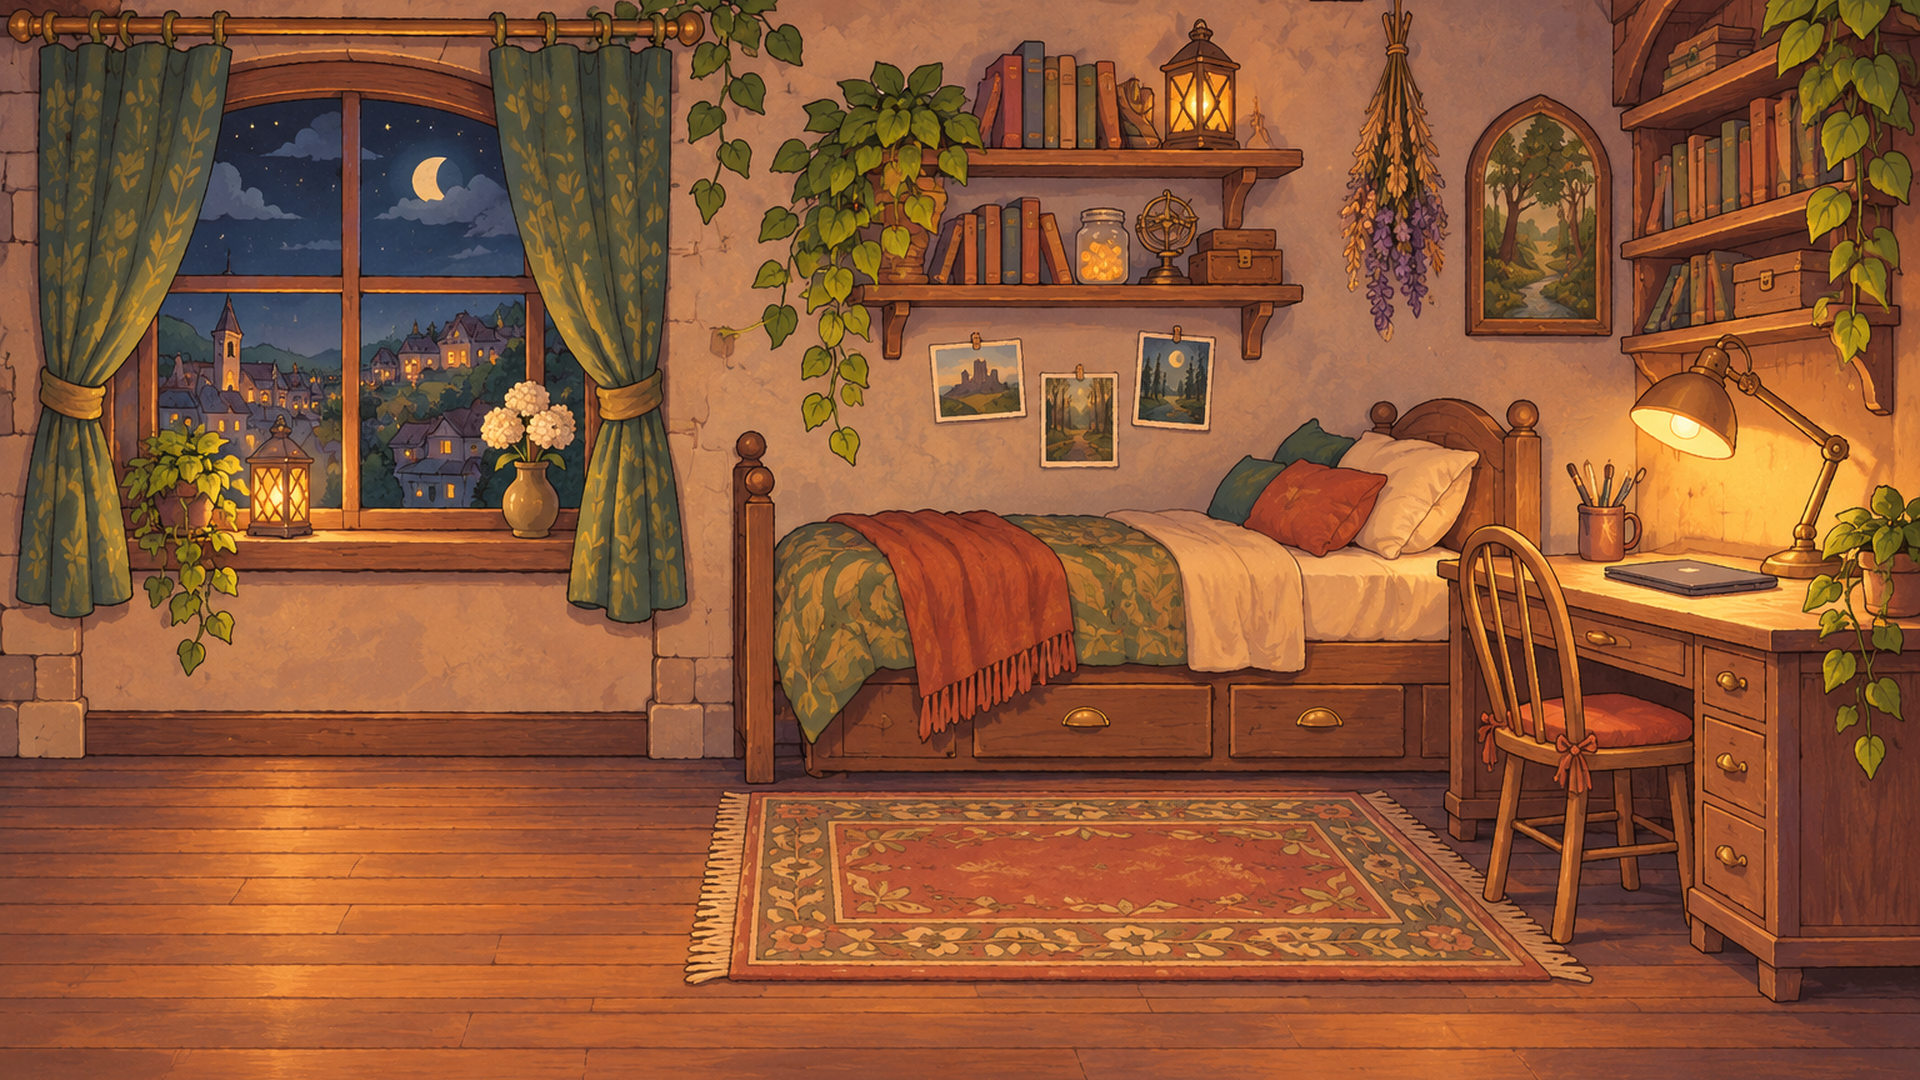
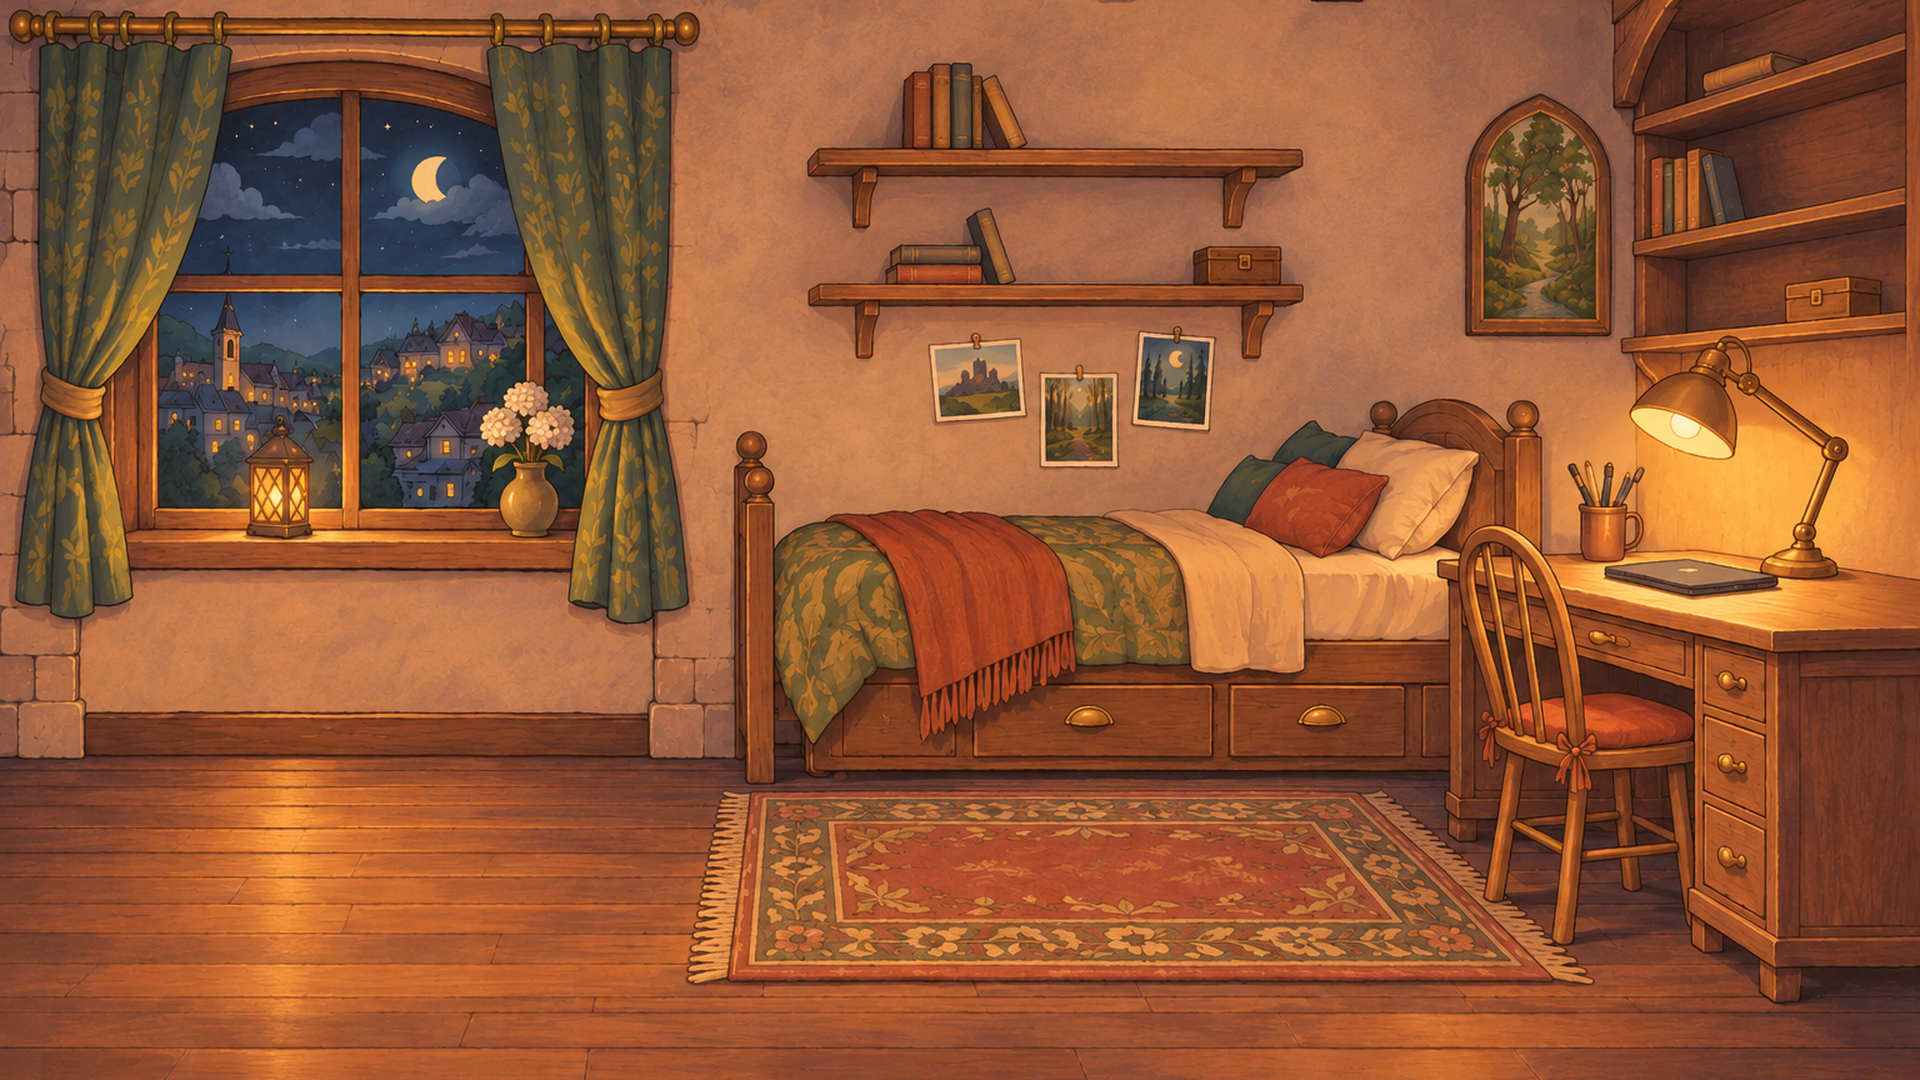
Bedroom v2: calmer room art, re-fit player scale and hotspots
Claude-Session: https://claude.ai/code/session_01Pyi5tLJBhQcie6HTsi8qjK

diff --git a/src/content/scenes/bedroom.ts b/src/content/scenes/bedroom.ts
@@ -10,14 +10,14 @@ export const bedroom: SceneDef = {
   title: 'Bedroom',
   world: { width: 1920, height: 1080 },
   layers: [{ key: 'bedroom.bg', depth: 0 }],
-  walk: { y: 965, minX: 160, maxX: 1300 },
-  player: { scale: 0.68, tint: 0xffe8d0, depth: 50, outfit: 'socks' },
+  walk: { y: 905, minX: 160, maxX: 1380 },
+  player: { scale: 0.57, tint: 0xffe8d0, depth: 50, outfit: 'socks' },
   hotspots: [
     {
       id: 'laptop',
       label: 'Work laptop',
-      area: { x: 1590, y: 545, w: 200, h: 70 },
-      walkTo: 1300,
+      area: { x: 1590, y: 540, w: 200, h: 70 },
+      walkTo: 1380,
       face: 'right',
       actions: [
         { type: 'setFlag', flag: 'laptop_open', value: false },
@@ -25,8 +25,8 @@ export const bedroom: SceneDef = {
         { type: 'cinematic', id: 'portal', if: 'laptop_open' },
       ],
     },
-    { id: 'window', label: 'Window', area: { x: 225, y: 60, w: 430, h: 500 }, walkTo: 440, face: 'right', actions: [{ type: 'dialogue', knot: 'bedroom_window' }] },
-    { id: 'poster', label: 'Photos', area: { x: 925, y: 425, w: 290, h: 120 }, walkTo: 980, face: 'right', actions: [{ type: 'dialogue', knot: 'bedroom_poster' }] },
+    { id: 'window', label: 'Window', area: { x: 130, y: 90, w: 460, h: 440 }, walkTo: 450, face: 'right', actions: [{ type: 'dialogue', knot: 'bedroom_window' }] },
+    { id: 'poster', label: 'Photos', area: { x: 925, y: 325, w: 295, h: 150 }, walkTo: 1000, face: 'right', actions: [{ type: 'dialogue', knot: 'bedroom_poster' }] },
   ],
   entries: {
     default: {
